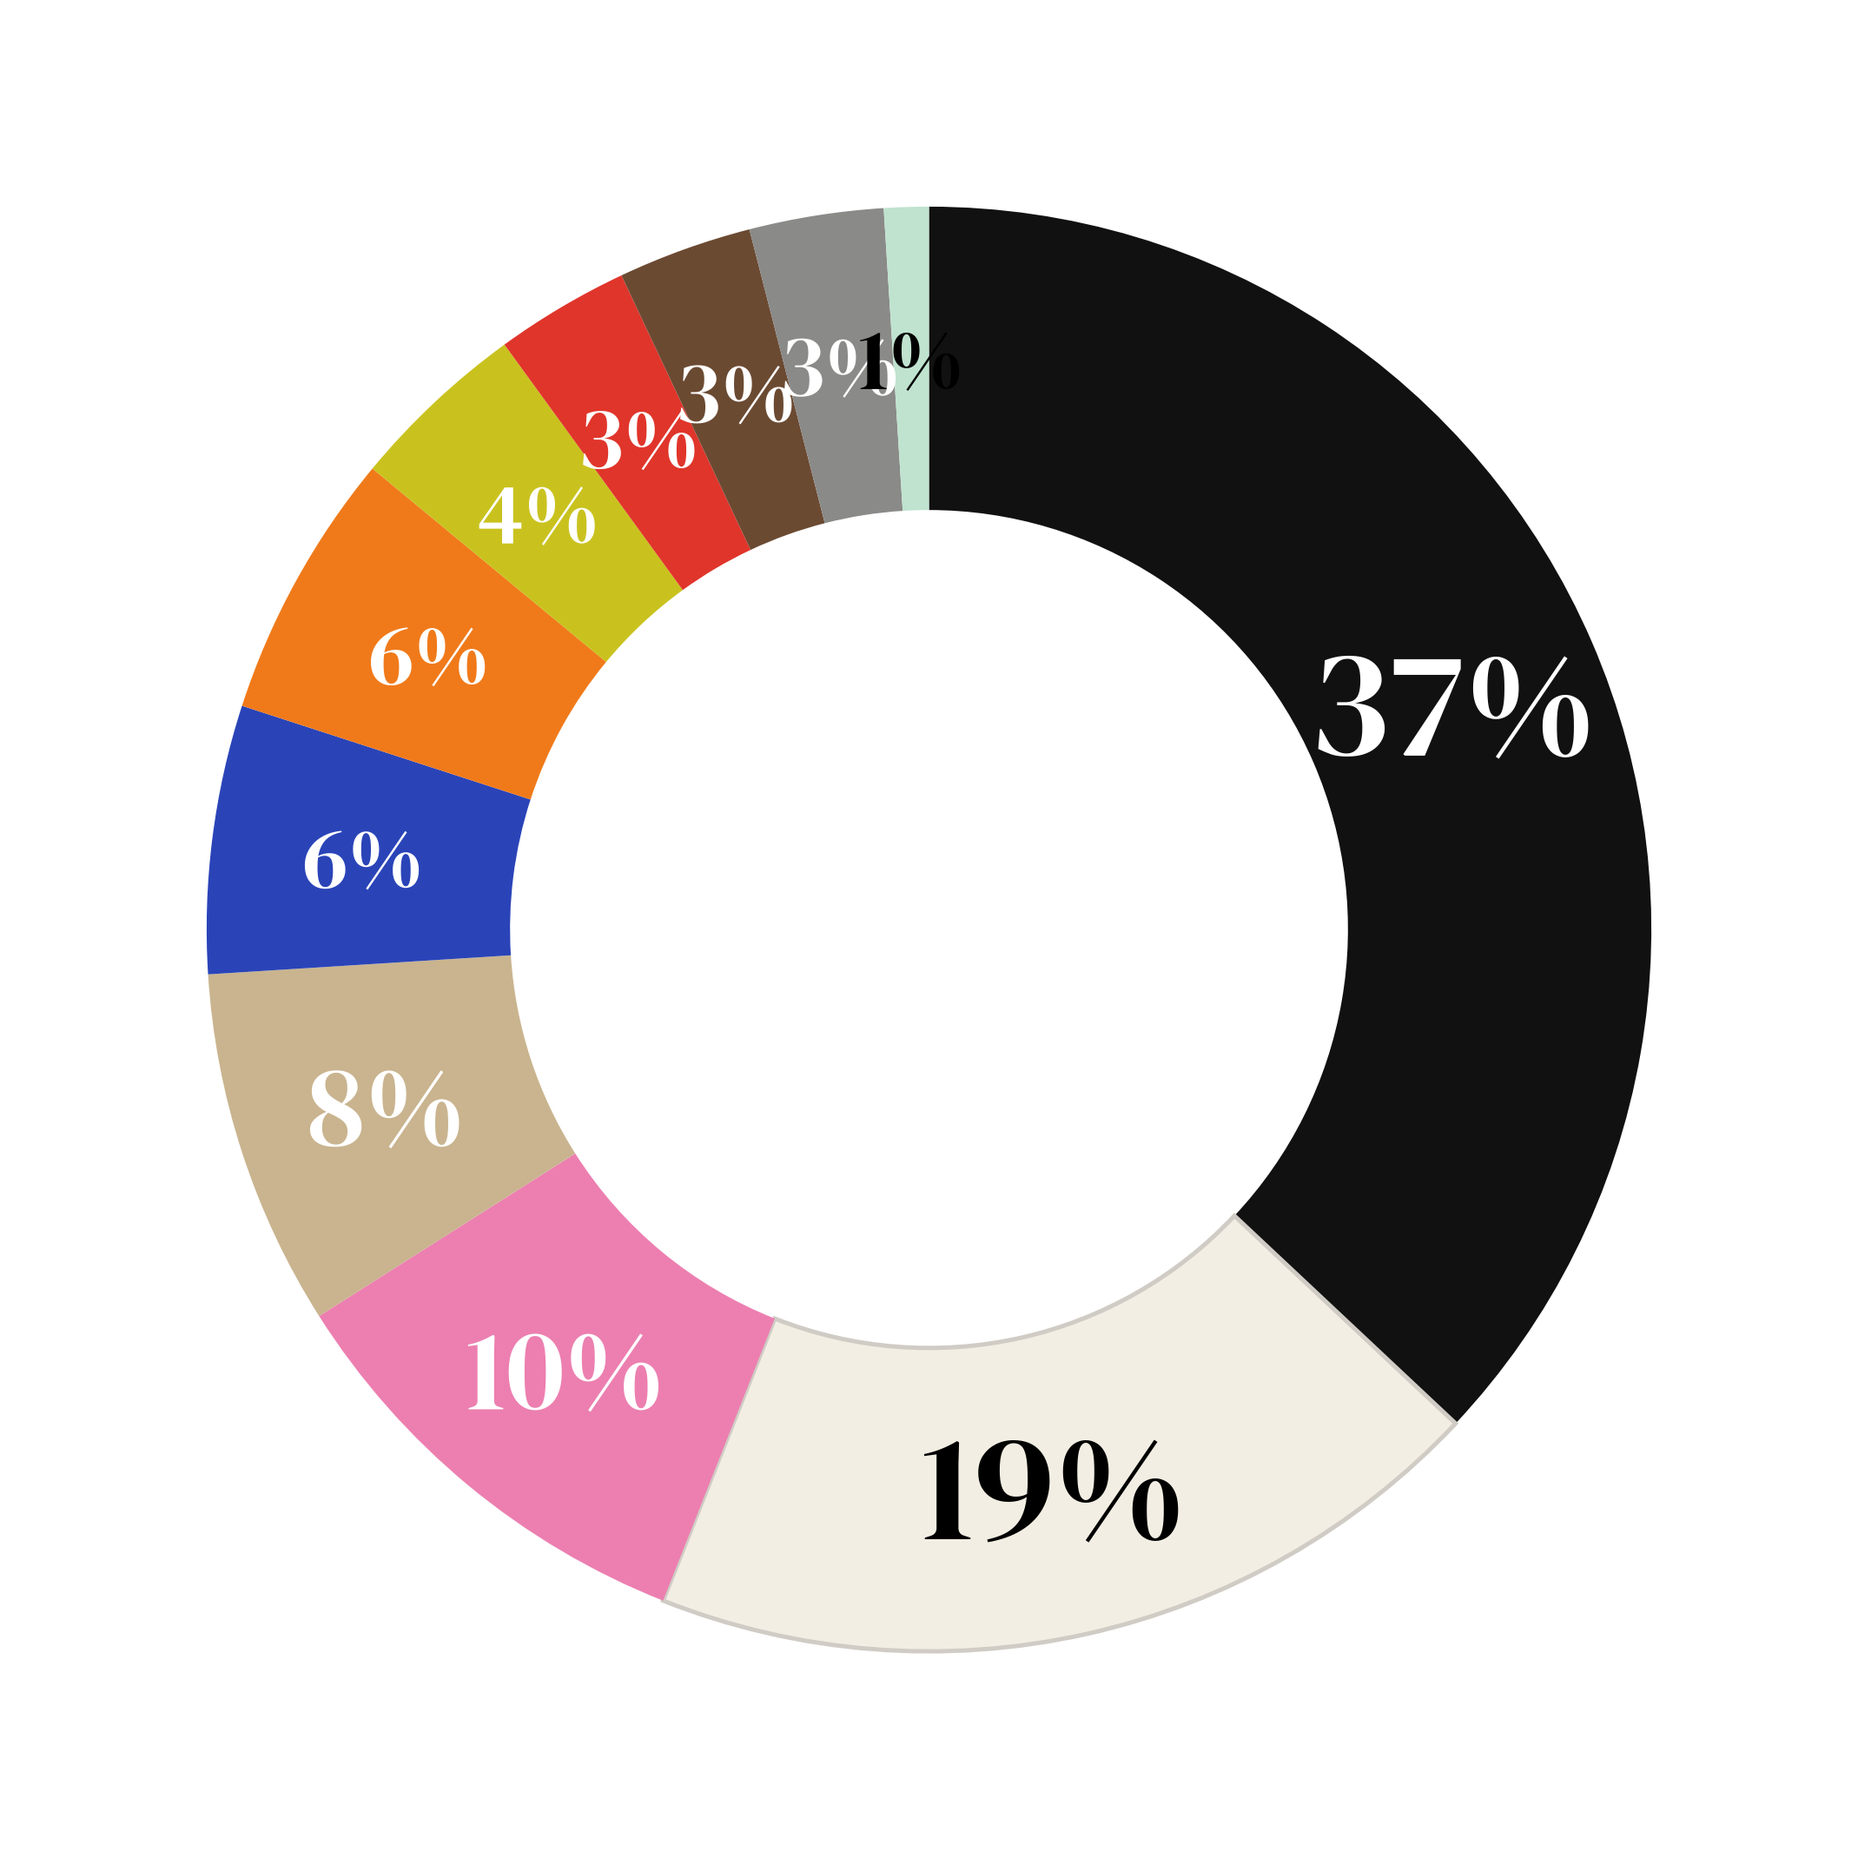
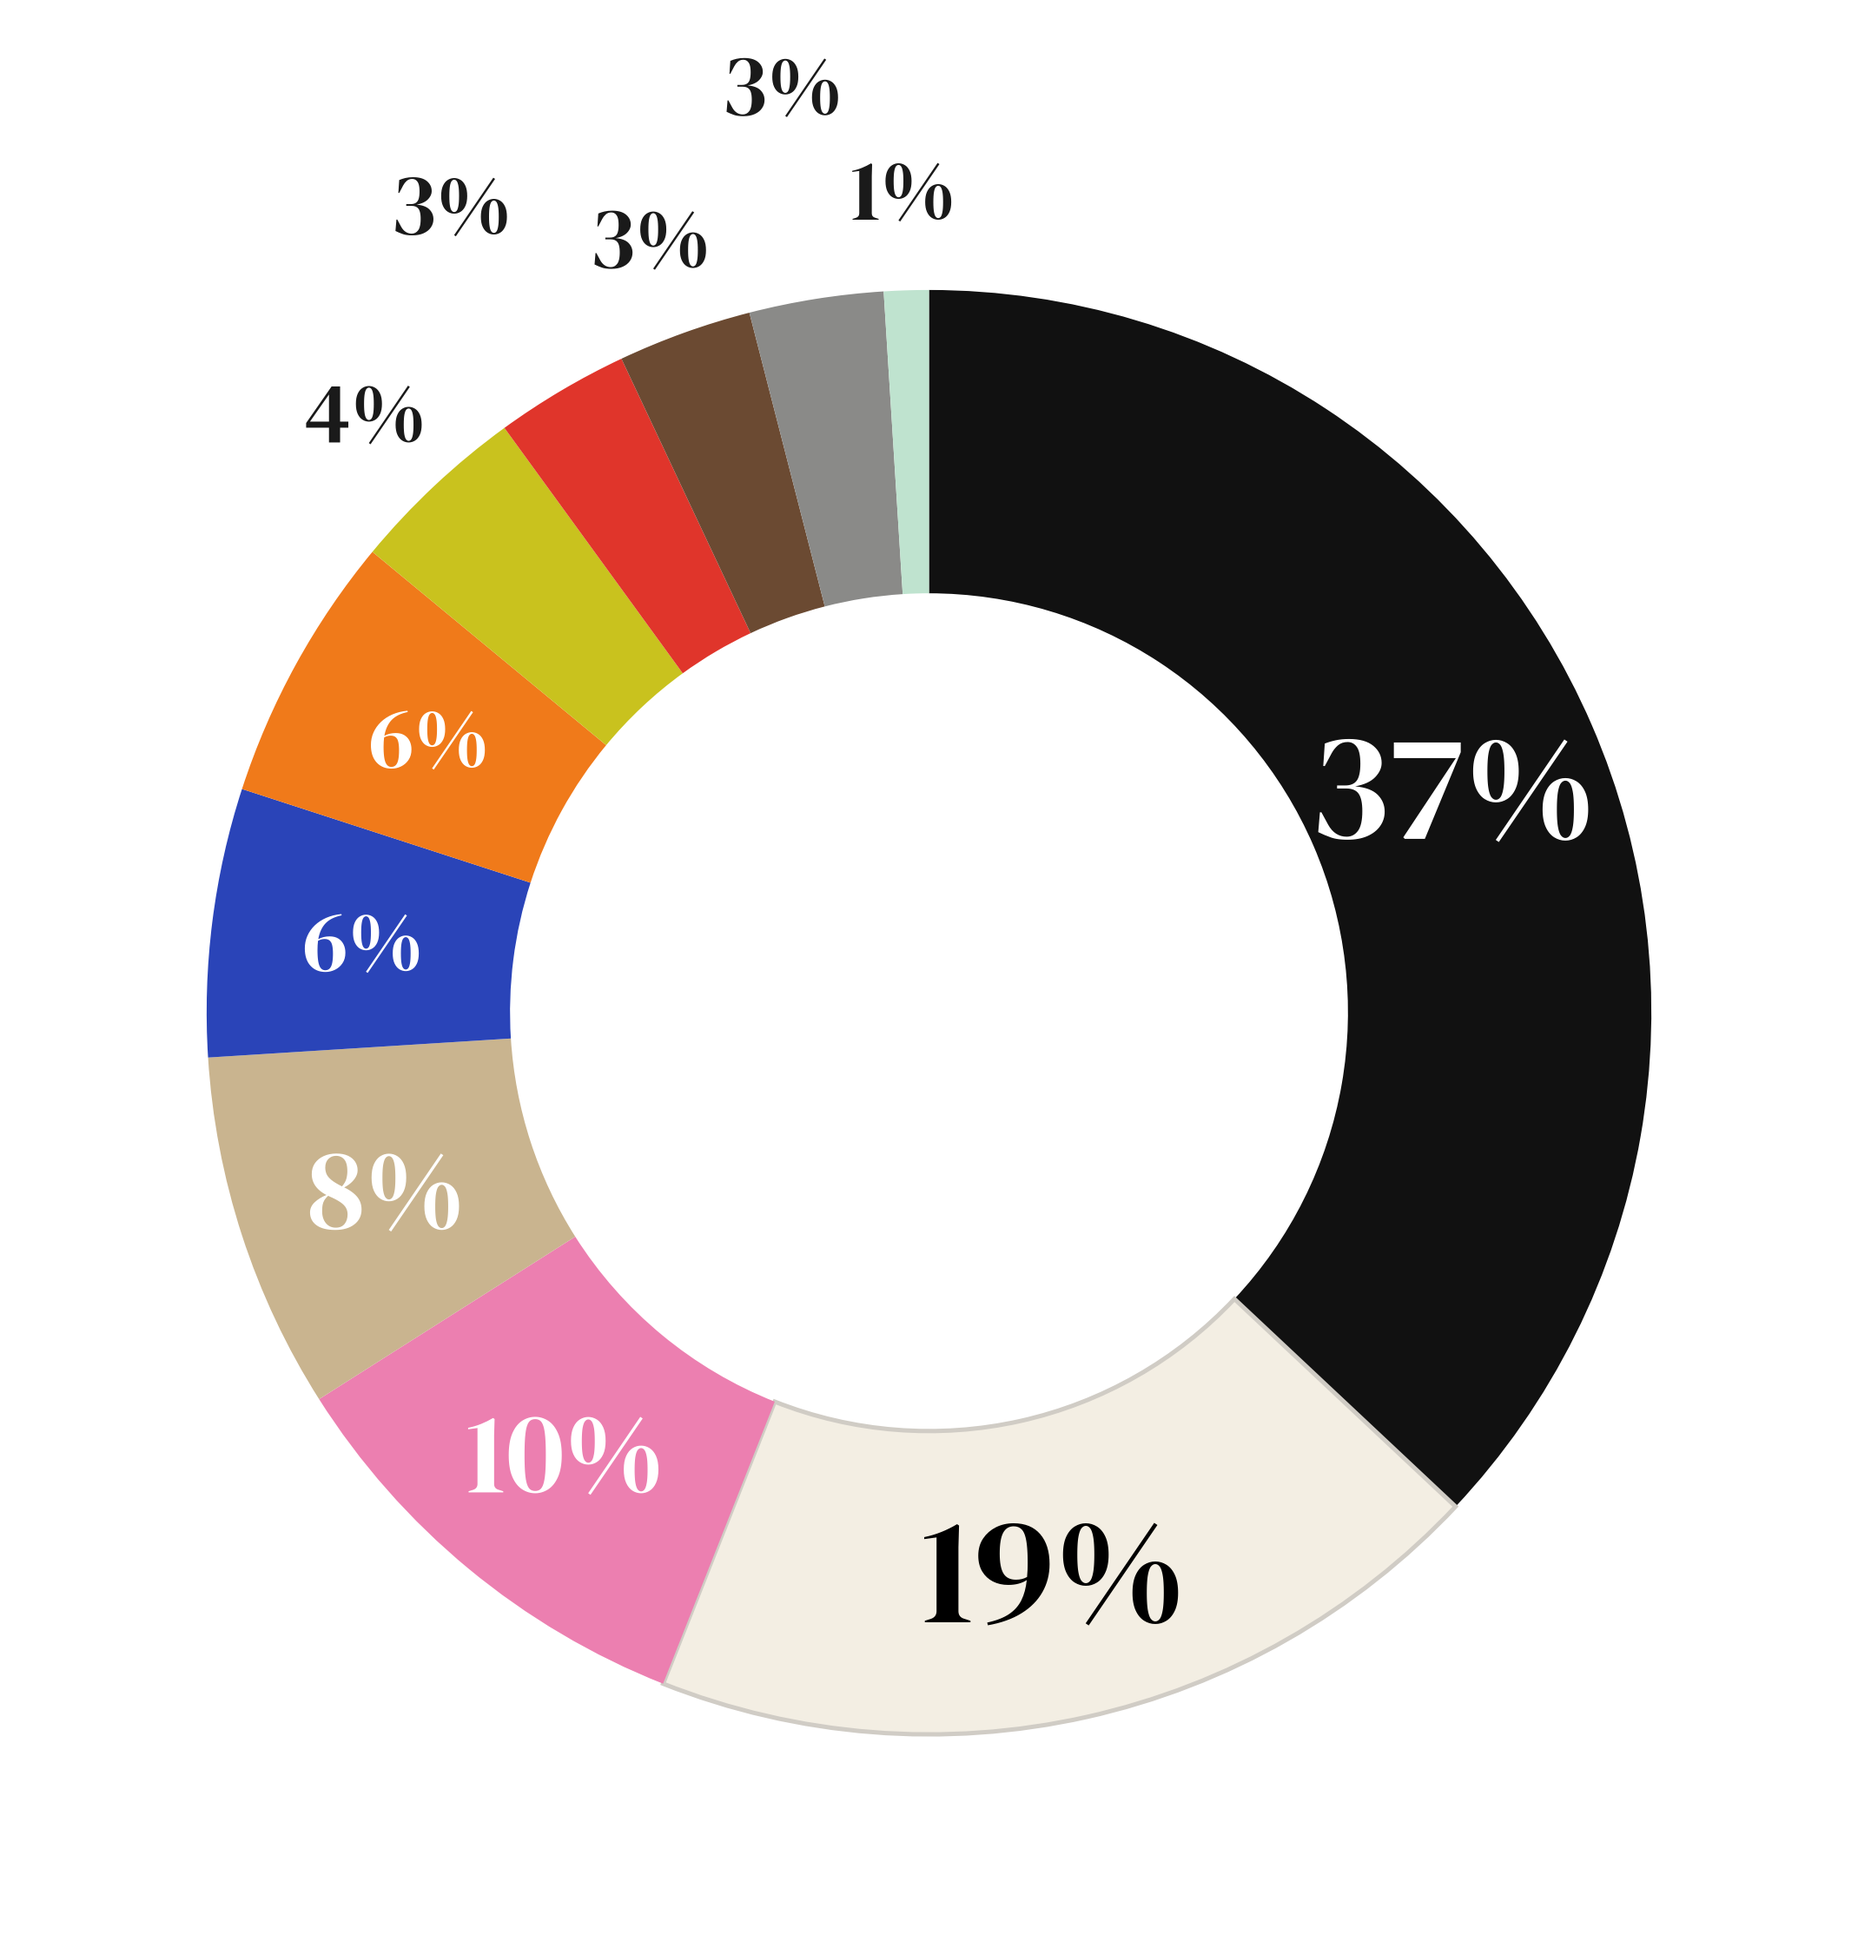
Donut labels under 5% sit outside the ring (staggered); Canva donut uses the DM Serif PNG; captions vary per show
Claude-Session: https://claude.ai/code/session_01T71EqhwFneaewTc7u3J5cV

diff --git a/.claude/skills/dfb-catwalk-decode/scripts/dfb_charts.py b/.claude/skills/dfb-catwalk-decode/scripts/dfb_charts.py
@@ -28,6 +28,7 @@ FONT_PATH = SKILL_DIR / "assets" / "fonts" / "DMSerifDisplay-Regular.ttf"
 PINK = "#D6447A"
 INK = "#1a1a1a"
 OUTLINE = "#D0CCC5"
+OUTSIDE_BELOW = 5  # % under which donut labels sit outside the ring
 # Neutral ramp for categories that have no real colour (silhouettes).
 NEUTRALS = ["#111111", "#3A3A3A", "#5E5E5E", "#8A8A8A", "#B0ADA8",
             "#D0CCC5", "#E8E5E0", "#F5F3EF", "#2B2B2B", "#747474"]
@@ -73,19 +74,26 @@ def donut(items, out, square=False):
         pcts, colors=cols, startangle=90, counterclock=False,
         wedgeprops={"width": 0.42, "edgecolor": "none"},
     )
+    last_out = None  # (angle, radius) of the previous outside label
     for w, col, pct in zip(wedges, cols, pcts):
         if luminance(col) > 0.82:
             w.set_edgecolor(OUTLINE)
             w.set_linewidth(1.2)
         ang = math.radians((w.theta1 + w.theta2) / 2)
-        x, y = 0.79 * math.cos(ang), 0.79 * math.sin(ang)
-        ax.text(x, y, f"{pct:g}%", ha="center", va="center",
-                fontproperties=font, fontsize=label_size(pct),
-                color="white" if luminance(col) < 0.55 else "black")
+        if pct < OUTSIDE_BELOW:
+            # Thin wedges: label just outside the ring so neighbours don't collide.
+            r, colour = 1.14, INK
+            if last_out and abs((w.theta1 + w.theta2) / 2 - last_out[0]) < 14 and last_out[1] == 1.14:
+                r = 1.30  # stagger neighbours that would touch
+            last_out = ((w.theta1 + w.theta2) / 2, r)
+        else:
+            r, colour = 0.79, "white" if luminance(col) < 0.55 else "black"
+        ax.text(r * math.cos(ang), r * math.sin(ang), f"{pct:g}%", ha="center", va="center",
+                fontproperties=font, fontsize=label_size(pct), color=colour)
     ax.set_aspect("equal")
     if square:
-        ax.set_xlim(-1.05, 1.05)
-        ax.set_ylim(-1.05, 1.05)
+        ax.set_xlim(-1.3, 1.3)
+        ax.set_ylim(-1.3, 1.3)
         fig.savefig(out, dpi=300, transparent=True)
     else:
         fig.savefig(out, dpi=300, transparent=True, bbox_inches="tight")
@@ -222,11 +230,12 @@ def canva_donut(items):
                  "view_box_width": 810, "view_box_height": 810, "color": col.upper(), "path": d}
         if luminance(col) > 0.82:
             shape.update(stroke_color=OUTLINE, stroke_weight=1.2)
-        lx, ly = pt(0.79 * R, (t0 + t1) / 2)
+        outside = it["pct"] < OUTSIDE_BELOW
+        lx, ly = pt((1.14 if outside else 0.79) * R, (t0 + t1) / 2)
         size = label_size(it["pct"])
         w = 200 if size >= 32 else 100
         label = {"text": f"{it['pct']:g}%", "left": round(box_left + lx - w / 2), "top": round(box_top + ly - size * 0.5),
-                 "width": w, "font_size": size, "color": "#FFFFFF" if luminance(col) < 0.55 else "#000000"}
+                 "width": w, "font_size": size, "color": "#000000" if outside or luminance(col) >= 0.55 else "#FFFFFF"}
         out.append({"label": it["label"], "shape": shape, "text": label})
     return out
 

diff --git a/.claude/skills/dfb-catwalk-decode/references/canva-template.md b/.claude/skills/dfb-catwalk-decode/references/canva-template.md
@@ -42,13 +42,13 @@ The skill duplicates the master template by its ID every time, so Carmen never h
 | Donut image frame | `LBRyWf5xH0FWszNX` | 1040 × 1040 image fill |
 | Footnote | `LBvMSpmWrlz7Y9z1` | `*% is share of colour: proportion of total looks with that colour` (leave) |
 
-To swap the donut, **draw it natively in Canva**. This is tested and works. (A PNG upload doesn't work from cloud sessions: the network policy blocks `www.canva.com`.)
-1. Run `python scripts/dfb_charts.py canva-donut decode.json`. For each wedge it gives an `insert_shape` operation (SVG arc path, colour, and outline for pale wedges) and a label (text, position, size, colour).
-2. In one `edit-design` call on page 2: `delete_element` the image frame `PBCtVl2vf06NcN17-LBRyWf5xH0FWszNX`, then add every wedge `insert_shape` (with `page_id`), then an `add_text` for every label (`text`, `top`, `left`, `width`).
-3. Take the new label locators from the response. In a second call, `format_text` each one with `font_size`, `color`, `text_align: "center"` and `line_height: 1`.
-4. Check the thumbnail. Every label should sit in the middle of its wedge.
-- **Font:** the Canva tools can't set a font family, so the labels come out in Canva's default font. To get DM Serif Display, select the labels in Canva and change the font (one click).
-- **Local session with Canva access:** you can instead upload the PNG (`donut --square`, then `create-upload-url`, POST the bytes, then `update_fill` on the frame). That keeps DM Serif Display, but the donut is no longer editable in Canva.
+To swap the donut, **use the PNG**, so the labels are in DM Serif Display, the same font as the exported chart:
+1. Export the PNG (step 5b in SKILL.md), commit it, and push it. The repo is public, so Canva can fetch it.
+2. `upload-asset-from-url` with the raw URL **pinned to the commit SHA** (it avoids GitHub's cache):
+   `https://raw.githubusercontent.com/carmenmartinezferrer/firstrepo/<sha>/exports/<season>/<brand>-<season>-palette.png`
+3. On page 2, `delete_element` the old donut: the image frame, or the wedge shapes and % labels left from the design you copied. Then `insert_fill` the asset at `top: 215, left: 60, width: 960, height: 960`.
+4. Check the thumbnail.
+- **Fallback (no network to GitHub):** `dfb_charts.py canva-donut` draws native wedge shapes and labels, but Canva's API can't set their font. Tell Carmen to switch the labels to DM Serif by hand.
 
 ### Pages 3 and 4: fabrics and silhouettes `PBpLhH5S1vzmmPzd`, `PBRzJ6lSQHfwq4Dm`
 These pages show **fabrics and silhouettes only, not trends.** Put the `silhouette` and `material` breakdowns together into one list ranked by share. Page 3 = ranks 1–4, page 4 = ranks 5–8. Use the labels exactly as they appear in the decode. When two rows tie, keep them in decode order. Get the rows from `python scripts/dfb_charts.py canva decode.json`.

diff --git a/.claude/skills/dfb-catwalk-decode/references/house-style.md b/.claude/skills/dfb-catwalk-decode/references/house-style.md
@@ -7,7 +7,7 @@
 
 ## Caption format (every decode)
 
-Write it in Carmen's voice: first person, chatty, opinionated, with every claim backed by a number from the decode. Use this reference caption (Dior SS27) as the model:
+Write it in Carmen's voice: first person, chatty, opinionated, with every claim backed by a number from the decode. The Dior SS27 caption below shows the **voice**. It's not a template: change the opener, the order and the angle for each show, and draw on what people are saying about it (reviews, comments, social reaction; do a quick web search when you can). Opinions and context can come from the internet, but **numbers only come from our own count**.
 
 ```
 @dior catwalk decode SS27 Paris Fashion Week
@@ -25,7 +25,7 @@ The codes are: the blazer (in any shape, form, material) as the base, froth as t
 I'm very into shrunken blazers atm and I've seen 14% of them on the runway.
 ```
 
-Structure:
+Usual ingredients (use, reorder or drop them as the show demands):
 1. **Line 1:** `@<brandhandle> catwalk decode <Season> <City> Fashion Week`.
 2. **Hook:** a casual opener ("Ok ok ok guys…") plus the headline stat, usually the top material or the big surprise.
 3. **The signature:** the silhouette formula that defines the show, in plain words.
@@ -47,6 +47,7 @@ Rules:
 - % label inside each wedge at radius 0.79, in DM Serif Display.
 - Label size by share: **42** (≥15%), **32** (≥8%), **24** for everything smaller. Never smaller than 24: small wedges must still be readable (Carmen's rule, updated from 22/14).
 - Label colour: **white if luminance < 0.55**, otherwise black.
+- Wedges **under 5%** get their label just outside the ring (radius 1.14, black text), so thin neighbouring wedges don't overlap.
 - Wedge colour = the actual colour, or a representative hex for prints and materials.
 - Luminance = WCAG relative luminance (sRGB linearised; 0.2126 R + 0.7152 G + 0.0722 B). This matches the Balmain template donut: white text on tan and olive, black on mint and ivory.
 

diff --git a/.claude/skills/dfb-catwalk-decode/SKILL.md b/.claude/skills/dfb-catwalk-decode/SKILL.md
@@ -68,7 +68,7 @@ python .claude/skills/dfb-catwalk-decode/scripts/dfb_charts.py donut decode.json
 Fill the Catwalk analysis template, following `references/canva-template.md`:
 - **Brand, city and season come from the pasted screenshots** (the Vogue Runway header, e.g. "Saint Laurent Spring 2027 Ready-to-Wear" → Saint Laurent, Paris, SS27). If they aren't visible, ask. Replace them in the **title** (cover), the **mini title** on pages 2–4 (`<Brand> • <City> FW <Season>`), the column header and the design name. No trace of the previous brand may remain.
 - Page 1: cover, "Decoding <Brand>" / "<City> Fashion Week <Season>".
-- Page 2: colour palette donut, drawn as native Canva shapes (`dfb_charts.py canva-donut`).
+- Page 2: the colour palette donut, using the exported PNG (same DM Serif font), via `upload-asset-from-url` from the public repo.
 - Pages 3–4: **fabrics and silhouettes only, no trends.** Put the silhouette and material breakdowns together, rank them by share, and fill the **top 4 on page 3** and the **next 4 on page 4**, each with a pink bar sized to its %. Don't pick or rename rows by hand; `scripts/dfb_charts.py canva decode.json` prints them. If a material and a silhouette are basically the same thing (Knit / Knit sweater), only the bigger one goes in Canva and the next row moves up.
 - The trends list and "The codes are: …" stay in the written decode. They don't go in Canva.
 
